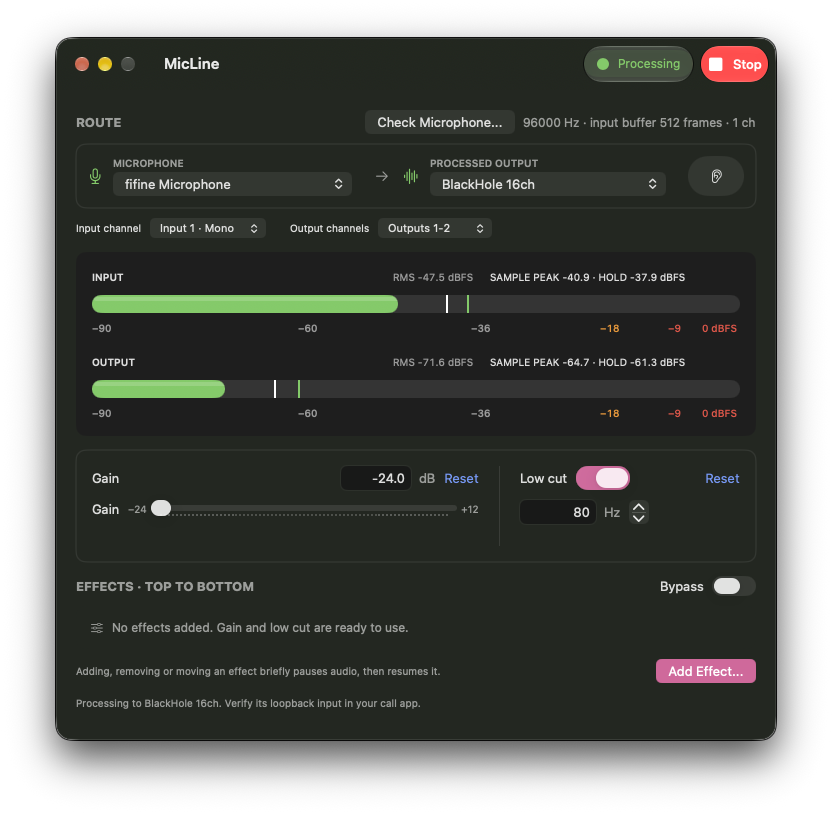
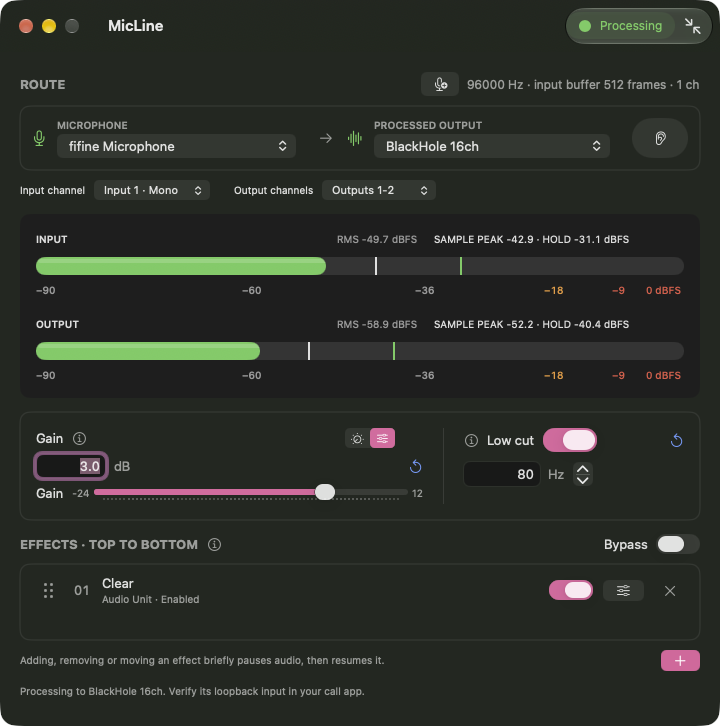
docs: refresh native screenshot for 1.1.0

diff --git a/docs/images/README.md b/docs/images/README.md
@@ -1,8 +1,10 @@
 # Product screenshots
 
-`micline-processing.png` is the clean native screenshot supplied by Samantha on
-24 September 2026, used unchanged. It shows active processing, gain, low cut and
-an empty effect chain. No screen-sharing indicator or generated retouching is used.
+`micline-processing.png` was captured natively with macOS screencapture from
+MicLine 1.1.0 on 24 September 2026. It shows the current gain controls, icon
+actions, live meters and a configured effect. The computer-use capture session
+was closed first; no recording badge, generated retouching or microphone audio
+is included.
 
 `guided-setup.jpg` was captured from the running native app on macOS 27 on
 24 September 2026 using the 1.0.0 UI source and a development-signed local build.

diff --git a/README.md b/README.md
@@ -9,7 +9,7 @@ for your call or recording app.
 
 Requires **Apple silicon and macOS 27 or later**. Releases are signed and notarized.
 
-![MicLine processing microphone audio with live input and output meters, gain and low cut](docs/images/micline-processing.png)
+![MicLine 1.1 with live input and output meters, gain controls, low cut and an Audio Unit effect](docs/images/micline-processing.png)
 
 ## Make your microphone sound like you
 
